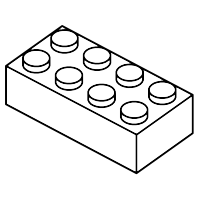
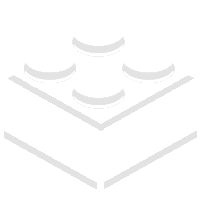
Added start screen and updated readme

Changed region(s): [[0.0, 0.12, 0.99, 0.96], [0.12, 0.57, 0.18, 0.6]]

diff --git a/final_game/docs/js/main.js b/final_game/docs/js/main.js
@@ -68,26 +68,17 @@ var Clicker = (function () {
 }());
 var Game = (function () {
     function Game() {
-        var _this = this;
-        console.log("Start game");
-        this.block = new Block();
-        this.ui = new Ui(this.block);
-        this.shop = new Shop(this.block);
+        this.screen = new StartScreen(this);
         this.gameLoop();
-        setInterval(function () { return _this.gameTimer(); }, 1000);
     }
     Game.prototype.gameLoop = function () {
         var _this = this;
-        this.ui.update();
+        this.screen.update();
         requestAnimationFrame(function () { return _this.gameLoop(); });
     };
-    Game.prototype.gameTimer = function () {
-        if (this.shop.clickers.length > 0) {
-            for (var _i = 0, _a = this.shop.clickers; _i < _a.length; _i++) {
-                var clicker = _a[_i];
-                clicker.timer();
-            }
-        }
+    Game.prototype.showPlayScreen = function () {
+        document.body.innerHTML = "";
+        this.screen = new PlayScreen(this);
     };
     return Game;
 }());
@@ -114,6 +105,31 @@ var Peercoach = (function (_super) {
     };
     return Peercoach;
 }(Clicker));
+var PlayScreen = (function () {
+    function PlayScreen(g) {
+        var _this = this;
+        this.game = g;
+        this.block = new Block();
+        this.ui = new Ui(this.block);
+        this.shop = new Shop(this.block);
+        this.gameLoop();
+        setInterval(function () { return _this.gameTimer(); }, 1000);
+    }
+    PlayScreen.prototype.gameLoop = function () {
+        var _this = this;
+        this.ui.update();
+        requestAnimationFrame(function () { return _this.gameLoop(); });
+    };
+    PlayScreen.prototype.gameTimer = function () {
+        if (this.shop.clickers.length > 0) {
+            for (var _i = 0, _a = this.shop.clickers; _i < _a.length; _i++) {
+                var clicker = _a[_i];
+                clicker.timer();
+            }
+        }
+    };
+    return PlayScreen;
+}());
 var Shop = (function () {
     function Shop(b) {
         var _this = this;
@@ -163,6 +179,21 @@ var ShopItem = (function () {
         return this.element;
     };
     return ShopItem;
+}());
+var StartScreen = (function () {
+    function StartScreen(g) {
+        var _this = this;
+        this.game = g;
+        var logo = document.createElement("logo");
+        logo.addEventListener("click", function () { return _this.nextLevel(); });
+        document.body.appendChild(logo);
+    }
+    StartScreen.prototype.update = function () {
+    };
+    StartScreen.prototype.nextLevel = function () {
+        this.game.showPlayScreen();
+    };
+    return StartScreen;
 }());
 var Student = (function (_super) {
     __extends(Student, _super);

diff --git a/final_game/docs/css/style.css b/final_game/docs/css/style.css
@@ -3,13 +3,20 @@ body{
     margin:0px; padding:0px;
     background-color: #000000;
     font-family: 'Roboto', sans-serif;
+    width: 100vw;
+    height: 100vh;
+    background: linear-gradient(-45deg, #EE7752, #E73C7E, #23A6D5, #23D5AB);
+	background-size: 400% 400%;
+    animation: Gradient 15s ease infinite;
 }
+
 
 body * {
     position: absolute;
     display: block;
     box-sizing: border-box;
     background-repeat: no-repeat;
+    z-index: 10;
 }
 
 block{
@@ -22,6 +29,23 @@ block{
     top: 35vh;
     transform-origin: 50% 50%;
     z-index: 10;
+    transition: all 100ms ease-in-out;
+}
+
+logo{
+    background-image: url(../images/logo.png);
+    background-size: contain;
+    width: 374px;
+    height: 282px;
+    cursor: pointer;
+    left: 38vw;
+    top: 35vh;
+    /* transform-origin: 50% 50%; */
+    transition: all 200ms ease-in-out;
+}
+
+logo:hover{
+    transform: scale(1.05, 1.05);
 }
 
 i{
@@ -57,4 +81,16 @@ p{
     100% {
         transform: scale(1);
     }
+}
+
+@keyframes Gradient {
+	0% {
+		background-position: 0% 50%
+	}
+	50% {
+		background-position: 100% 50%
+	}
+	100% {
+		background-position: 0% 50%
+	}
 }

diff --git a/final_game/dev/game.ts b/final_game/dev/game.ts
@@ -1,32 +1,23 @@
-class Game{
-    block:Block
-    ui:Ui
-    shop:Shop
+class Game {
+    screen:any
 
-    constructor(){
-        console.log("Start game")
-
-        this.block = new Block()
-        this.ui = new Ui(this.block)
-        this.shop = new Shop(this.block)
-
-        this.gameLoop()
-        setInterval(()=> this.gameTimer(), 1000)
+    constructor() {
+         this.screen = new StartScreen(this)
+         this.gameLoop()
     }
-
+    
     private gameLoop():void{
+        this.screen.update()
         
-        this.ui.update()
         requestAnimationFrame(() => this.gameLoop())
     }
 
-    private gameTimer(){
-        if(this.shop.clickers.length > 0){
-            for(let clicker of this.shop.clickers){
-                clicker.timer()
-            }
-        }
+    public showPlayScreen(){
+        document.body.innerHTML = ""
+        this.screen = new PlayScreen(this)
     }
-}
+    
+} 
+
 
 window.addEventListener("load", () => new Game())

diff --git a/final_game/dev/playScreen.ts b/final_game/dev/playScreen.ts
@@ -1,0 +1,31 @@
+class PlayScreen{
+    game:Game
+    block:Block
+    ui:Ui
+    shop:Shop
+
+    constructor(g:Game){
+        this.game = g
+
+        this.block = new Block()
+        this.ui = new Ui(this.block)
+        this.shop = new Shop(this.block)
+
+        this.gameLoop()
+        setInterval(()=> this.gameTimer(), 1000)
+    }
+
+    private gameLoop():void{
+        
+        this.ui.update()
+        requestAnimationFrame(() => this.gameLoop())
+    }
+
+    private gameTimer(){
+        if(this.shop.clickers.length > 0){
+            for(let clicker of this.shop.clickers){
+                clicker.timer()
+            }
+        }
+    }
+}

diff --git a/final_game/docs/index.html b/final_game/docs/index.html
@@ -3,6 +3,7 @@
 
 <head>
   <title>Buildingblock clicker</title>
+  <link rel="shortcut icon" type="image/x-icon" href="favicon.ico"/>
   <link href="https://fonts.googleapis.com/css?family=Roboto" rel="stylesheet">
   <link rel="stylesheet" href="https://use.fontawesome.com/releases/v5.0.13/css/all.css" integrity="sha384-DNOHZ68U8hZfKXOrtjWvjxusGo9WQnrNx2sqG0tfsghAvtVlRW3tvkXWZh58N9jp" crossorigin="anonymous">
   <link rel="stylesheet" type="text/css" href="css/style.css">

diff --git a/final_game/dev/startScreen.ts b/final_game/dev/startScreen.ts
@@ -1,0 +1,18 @@
+class StartScreen{
+    game: Game
+
+    constructor(g:Game) {
+        this.game = g
+
+        let logo = document.createElement("logo")
+        logo.addEventListener("click",()=> this.nextLevel())
+        document.body.appendChild(logo)
+    }
+
+    public update(): void {
+    }
+
+    private nextLevel(){
+        this.game.showPlayScreen()
+    }
+}

diff --git a/final_game/readme.md b/final_game/readme.md
@@ -2,4 +2,23 @@
 
 
 ## Live demo
-[Speel Buildinblock Clicker v1](http://justinderuiter.nl/bbclicker)
+[Speel Buildinblock Clicker v1](http://bbclicker.nl)
+
+## Checklist
+[x] Startscherm
+[] Einscherm
+[] Er zijn geen bugs
+
+## Toelichting OOP
+
+### Classes
+
+### Encaptulation
+
+## Inheritance
+
+## Klassendiagram
+
+## Peer review
+
+## Extra uitdagingen
